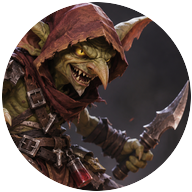
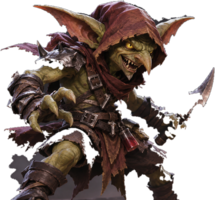
v2.42: Kobold als ausgeschnittene Figur ohne Kreis, Fledermaus 100 Leben / 1.7 Schaden / 1.2 s

diff --git a/js/physics.js b/js/physics.js
@@ -63,11 +63,13 @@ function applyHit(victim, shooterName, damage, special) {
   actors[victim].wiggle = 1;
   const currentMax = actors[victim].maxHp || 100;
   if (typeof actors[victim].hp !== 'number') actors[victim].hp = currentMax;
-  actors[victim].hp = Math.max(0, actors[victim].hp - damage);
-  actors[victim].hitsTaken = currentMax - actors[victim].hp;
+  // Auf 1 Kommastelle runden: Schaden wie 1,7 ergibt sonst Zahlen wie 3,4000000001
+  const r1 = (v) => Math.round(v * 10) / 10;
+  actors[victim].hp = r1(Math.max(0, actors[victim].hp - damage));
+  actors[victim].hitsTaken = r1(currentMax - actors[victim].hp);
   const shooter = actors[shooterName];
   if (shooter) {
-    shooter.hitsGiven += damage;
+    shooter.hitsGiven = r1(shooter.hitsGiven + damage);
     if (!special) chargeSpecial(shooterName); // ⚡ Aufladen (specials.js)
     // 🤲 Fußballer mit sixSeven jubeln nach einem Treffer (footballer.js)
     const shirt = actorCfg(shooterName, 'Shirt');
@@ -78,7 +80,7 @@ function applyHit(victim, shooterName, damage, special) {
   }
   // TREFFER oben zählt nur deine eigenen (bei „Alle zusammen“: alle)
   if (playerTeam === null || playerTeam.includes(shooterName)) {
-    score += damage;
+    score = r1(score + damage);
     scoreEl.textContent = score;
     if (typeof addSavedScore === 'function') addSavedScore(damage);
   }

diff --git a/js/credits.js b/js/credits.js
@@ -6,7 +6,7 @@
  * GAME_VERSION hochzählen (z. B. 2.22 → 2.23).
  */
 
-const GAME_VERSION = '2.41';
+const GAME_VERSION = '2.42';
 const REPO_URL = 'https://github.com/felixinberlin/Jugendklub-Lieberose';
 
 const WISHES = [
@@ -62,7 +62,8 @@ const WISHES = [
   { v: '2.38', text: 'Interaktiver Kino-Abspann 🎬 (Spulen, Tempo 1x/2x/4x, Pause) & die große Ehren-Rolle für Kevin, Felix, Skoogi & Grit! 🎮🐶' },
   { v: '2.39', text: 'Tobias\' Wunsch: die Fledermaus 🦇 mit Blutsaugen 🩸 – klaut Gegnern Leben und heilt sich selbst ❤' },
   { v: '2.40', text: 'Faire Kämpfe ⚖: gleich große Teams, Bots greifen alle gleich oft an & kämpfen weiter, bis nur einer übrig ist 🤖 · Rangliste nur mit echten Spielern 🏆 · kein Auf-0-Setzen mehr 🔒' },
-  { v: '2.41', text: 'Größere Map 🗺 – mehr Platz zum Kämpfen auf dem Handy 📱 & neues Design: wütender Kobold mit gezackter Klinge 😠🗡' }
+  { v: '2.41', text: 'Größere Map 🗺 – mehr Platz zum Kämpfen auf dem Handy 📱 & neues Design: wütender Kobold mit gezackter Klinge 😠🗡' },
+  { v: '2.42', text: 'Kobold als ganze Figur ohne Kreis 😠🗡 · Fledermaus: 100 Leben, 1,7 Schaden alle 1,2 Sekunden 🦇' }
 ];
 
 // Abspann-Inhalt einmal beim Laden bauen

diff --git a/js/config.js b/js/config.js
@@ -13,7 +13,7 @@ const GAME_CONFIG = {
 
   // Charaktere auf beiden Seiten
   koboldEmoji: '🧌',
-  koboldImage: 'kobold.png', // 😠🗡 Neues Design: Wütender Kobold mit gezackter Klinge (Emoji nur, falls das Bild nicht lädt)
+  koboldImage: 'kobold.png', // 😠🗡 Neues Design: Wütender Kobold mit gezackter Klinge (ausgeschnitten, ohne Kreis) (Emoji nur, falls das Bild nicht lädt)
   koboldSize: 70,
   cornEmoji: '🌽',
   cornSize: 74,
@@ -207,9 +207,9 @@ const CHAR_STATS = {
   },
   fledermaus: {
     name: 'Fledermaus',
-    hp: 100,
-    attackDamage: 3,
-    attackCooldown: 1.0,
+    hp: 100,             // Pokal-Modus; im normalen Modus gilt die eingestellte Lebenszahl
+    attackDamage: 1.7,   // 🦇 1,7 Schaden pro Wurf …
+    attackCooldown: 1.2, // … alle 1,2 Sekunden
     abilityDamage: 15,   // Blutsaugen: 5 × 3 Schaden, heilt sich um 15
     speed: 1.4
   },

diff --git a/js/sprites.js b/js/sprites.js
@@ -88,13 +88,9 @@ function actorImage(name) {
   return img.complete && img.naturalWidth ? img : null;
 }
 
-// Malt ein rundes Figuren-Bild mit farbigem Rand, Mitte bei (0, 0)
-function drawPortrait(img, size, ringColor) {
-  const r = size * 0.72;
-  ctx.drawImage(img, -r, -r, r * 2, r * 2);
-  ctx.strokeStyle = ringColor;
-  ctx.lineWidth = 3;
-  ctx.beginPath();
-  ctx.arc(0, 0, r - 1, 0, Math.PI * 2);
-  ctx.stroke();
+// Malt ein ausgeschnittenes Figuren-Bild (ohne Hintergrund), Mitte bei (0, 0)
+function drawActorImage(img, size) {
+  const h = size * 1.55; // etwas größer als Emojis, weil das Bild viel Rand und dunkle Farben hat
+  const w = h * img.naturalWidth / img.naturalHeight;
+  ctx.drawImage(img, -w / 2, -h / 2, w, h);
 }

diff --git a/js/actors.js b/js/actors.js
@@ -216,7 +216,7 @@ function drawActors(now) {
       drawProSkin(kindOf(name), actorSize(name), now); // ✨ Edler Pro-Skin (skins.js)
     } else if (actorImage(name)) {
       // 😠🗡 Eigenes Bild, z. B. der wütende Kobold (sprites.js)
-      drawPortrait(actorImage(name), actorSize(name), teamMode ? TEAM_COLORS[teamOf(name)] : actor.color);
+      drawActorImage(actorImage(name), actorSize(name));
     } else {
       drawEmoji(actorEmoji(name), 0, 0, actorSize(name)); // 🖼 aus dem Bilder-Speicher (sprites.js)
     }

diff --git a/js/specials.js b/js/specials.js
@@ -143,7 +143,7 @@ function drawSpecials(now) {
     ctx.translate(m.body.position.x, m.body.position.y);
     ctx.rotate(Math.sin(now / 150 + m.angle) * 0.2 + m.wiggle * 0.5);
     const koboldPic = actorImage('kobold');
-    if (koboldPic) drawPortrait(koboldPic, 30, '#6ee7b7'); // 😠 Mini-Wut-Kobolde
+    if (koboldPic) drawActorImage(koboldPic, 30); // 😠 Mini-Wut-Kobolde
     else drawEmoji(actorEmoji('kobold'), 0, 0, 30); // 🖼 sprites.js
     ctx.restore();
   }

diff --git a/js/trophies.js b/js/trophies.js
@@ -126,7 +126,7 @@ document.addEventListener('visibilitychange', () => {
 function addSavedScore(points) {
   const add = Number(points) || 0;
   if (add <= 0) return;
-  trophiesData.totalScore = (Number(trophiesData.totalScore) || 0) + add;
+  trophiesData.totalScore = Math.round(((Number(trophiesData.totalScore) || 0) + add) * 10) / 10;
   if (score > highScore) {
     highScore = score;
     if (highScoreEl) highScoreEl.textContent = highScore;

diff --git a/style.css b/style.css
@@ -186,7 +186,7 @@ h2 {
 
 .pick-btn:active { transform: scale(0.94); background: rgba(255, 222, 89, 0.25); }
 .pick-emoji { font-size: 2.2rem; line-height: 1.1; }
-.pick-img { width: 1.15em; height: 1.15em; border-radius: 50%; vertical-align: middle; object-fit: cover; }
+.pick-img { width: 1.25em; height: 1.15em; vertical-align: middle; object-fit: contain; }
 
 .btn.btn-small {
   margin-top: 12px;

diff --git a/AGENTS.md b/AGENTS.md
@@ -222,7 +222,8 @@ btn.addEventListener('click', async () => {
 25. **Tempo bei vielen Figuren:** Gemessen (Playwright, Pixeldichte 3, Team-Level 8 mit 13 Figuren): 26 fps mit Rucklern bis 267 ms. Ursache: farbige Emojis per `fillText` jedes Bild neu rastern + 2,6 Mio. Pixel Leinwand. Lösung: Bilder-Speicher (`sprites.js`) + `maxPixelRatio: 2` → 58 fps. Messen mit `requestAnimationFrame`-Zähler; headless-Chromium malt ohne GPU, also nur Vorher/Nachher vergleichen.
 26. **Zuschauer-Modus (Solo):** Ist die eigene Figur raus, setzt `checkKnockout` nach `endGame(null)` `spectating = true` (`js/state.js`) – die Bots kämpfen hinter dem Game-Over-Bildschirm weiter, bis einer übrig ist. Alles, was Kämpfe antreibt (Kollisionen, `shootBomb`, `trySpecial`, Combos, `gameLoop`), fragt deshalb `battleRunning()` statt `isPlaying`; Spieler-Eingaben fragen weiter `isPlaying`.
 27. **Keine echte globale Rangliste:** Über alle Handys ginge nur mit Server (verboten, §2). Die Rangliste zeigt nur Spieler mit Pokalen von diesem Gerät, KEINE ausgedachten Bot-Namen. Auf 0 setzen gibt es absichtlich nicht mehr (Kinder-Wunsch). Solo-Bots wählen ihr Ziel zufällig unter ALLEN Lebenden (fair, kein `huntPlayer` mehr); Team-Gegner = `chosenTeam.length`.
-28. **Eigene Bilder für Figuren:** `<name>Image: 'datei.png'` in `GAME_CONFIG` → `actorImage(name)` / `drawPortrait()` (`js/sprites.js`) malt es rund mit Rand; Kacheln nutzen `actorIconHtml(name)`. Fotos/KI-Bilder vorher mit `convert … -crop … -resize 192x192` + runder Maske auf ~60 KB verkleinern (Original 2,2 MB wäre fürs Jugendklub-WLAN zu schwer). Lädt das Bild nicht, wird das Emoji gemalt. `mapScale()` ist auf Handys (`min(innerWidth, innerHeight) < 500`) `phoneMapScale` – Größen immer über `mapScale()` holen, nie `GAME_CONFIG.mapScale` direkt.
+28. **Eigene Bilder für Figuren:** `<name>Image: 'datei.png'` in `GAME_CONFIG` → `actorImage(name)` / `drawActorImage()` (`js/sprites.js`) malt es ausgeschnitten (ohne Kreis); Kacheln nutzen `actorIconHtml(name)`. Fotos/KI-Bilder vorher mit `convert … -crop … -resize 192x192` verkleinern; Hintergrund weg per `-fuzz 8% … floodfill` von den Rändern + `-connected-components` gegen Krümel/Löcher (höhere Fuzz-Werte fressen Löcher in dunkle Figuren) (Original 2,2 MB wäre fürs Jugendklub-WLAN zu schwer). Lädt das Bild nicht, wird das Emoji gemalt. `mapScale()` ist auf Handys (`min(innerWidth, innerHeight) < 500`) `phoneMapScale` – Größen immer über `mapScale()` holen, nie `GAME_CONFIG.mapScale` direkt.
+29. **Kommazahlen-Schaden (z. B. Fledermaus 1,7):** `applyHit` rundet `hp`, `hitsTaken`, `hitsGiven` und `score` auf 1 Kommastelle (`r1`), sonst stehen Zahlen wie 3,4000000001 im Spiel.
 
 ---
 
